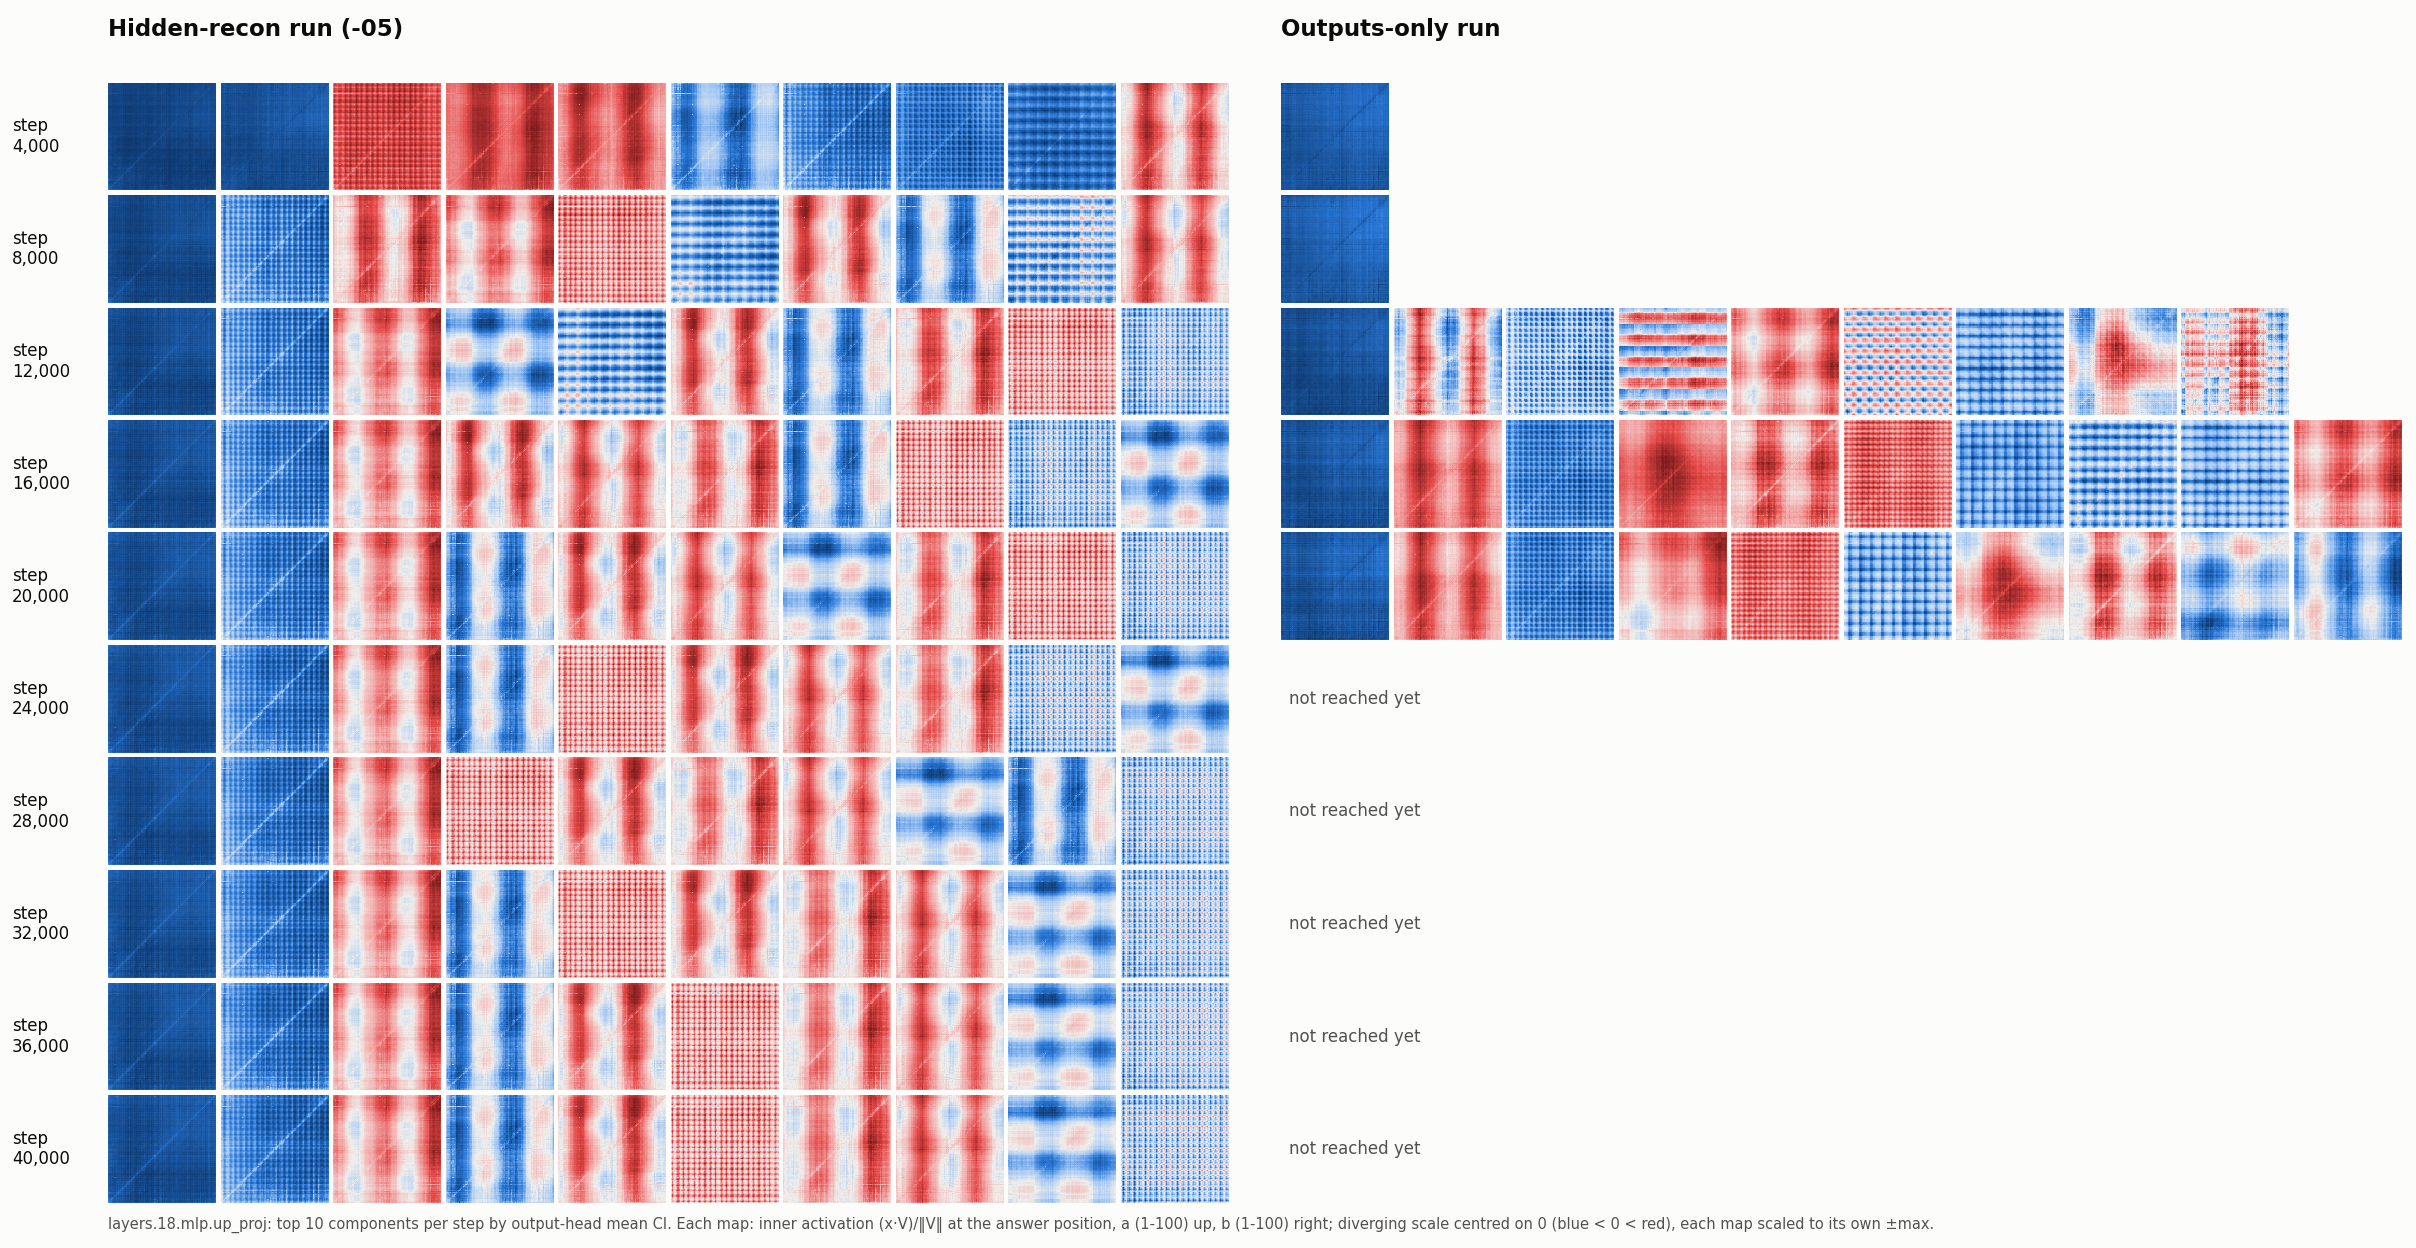
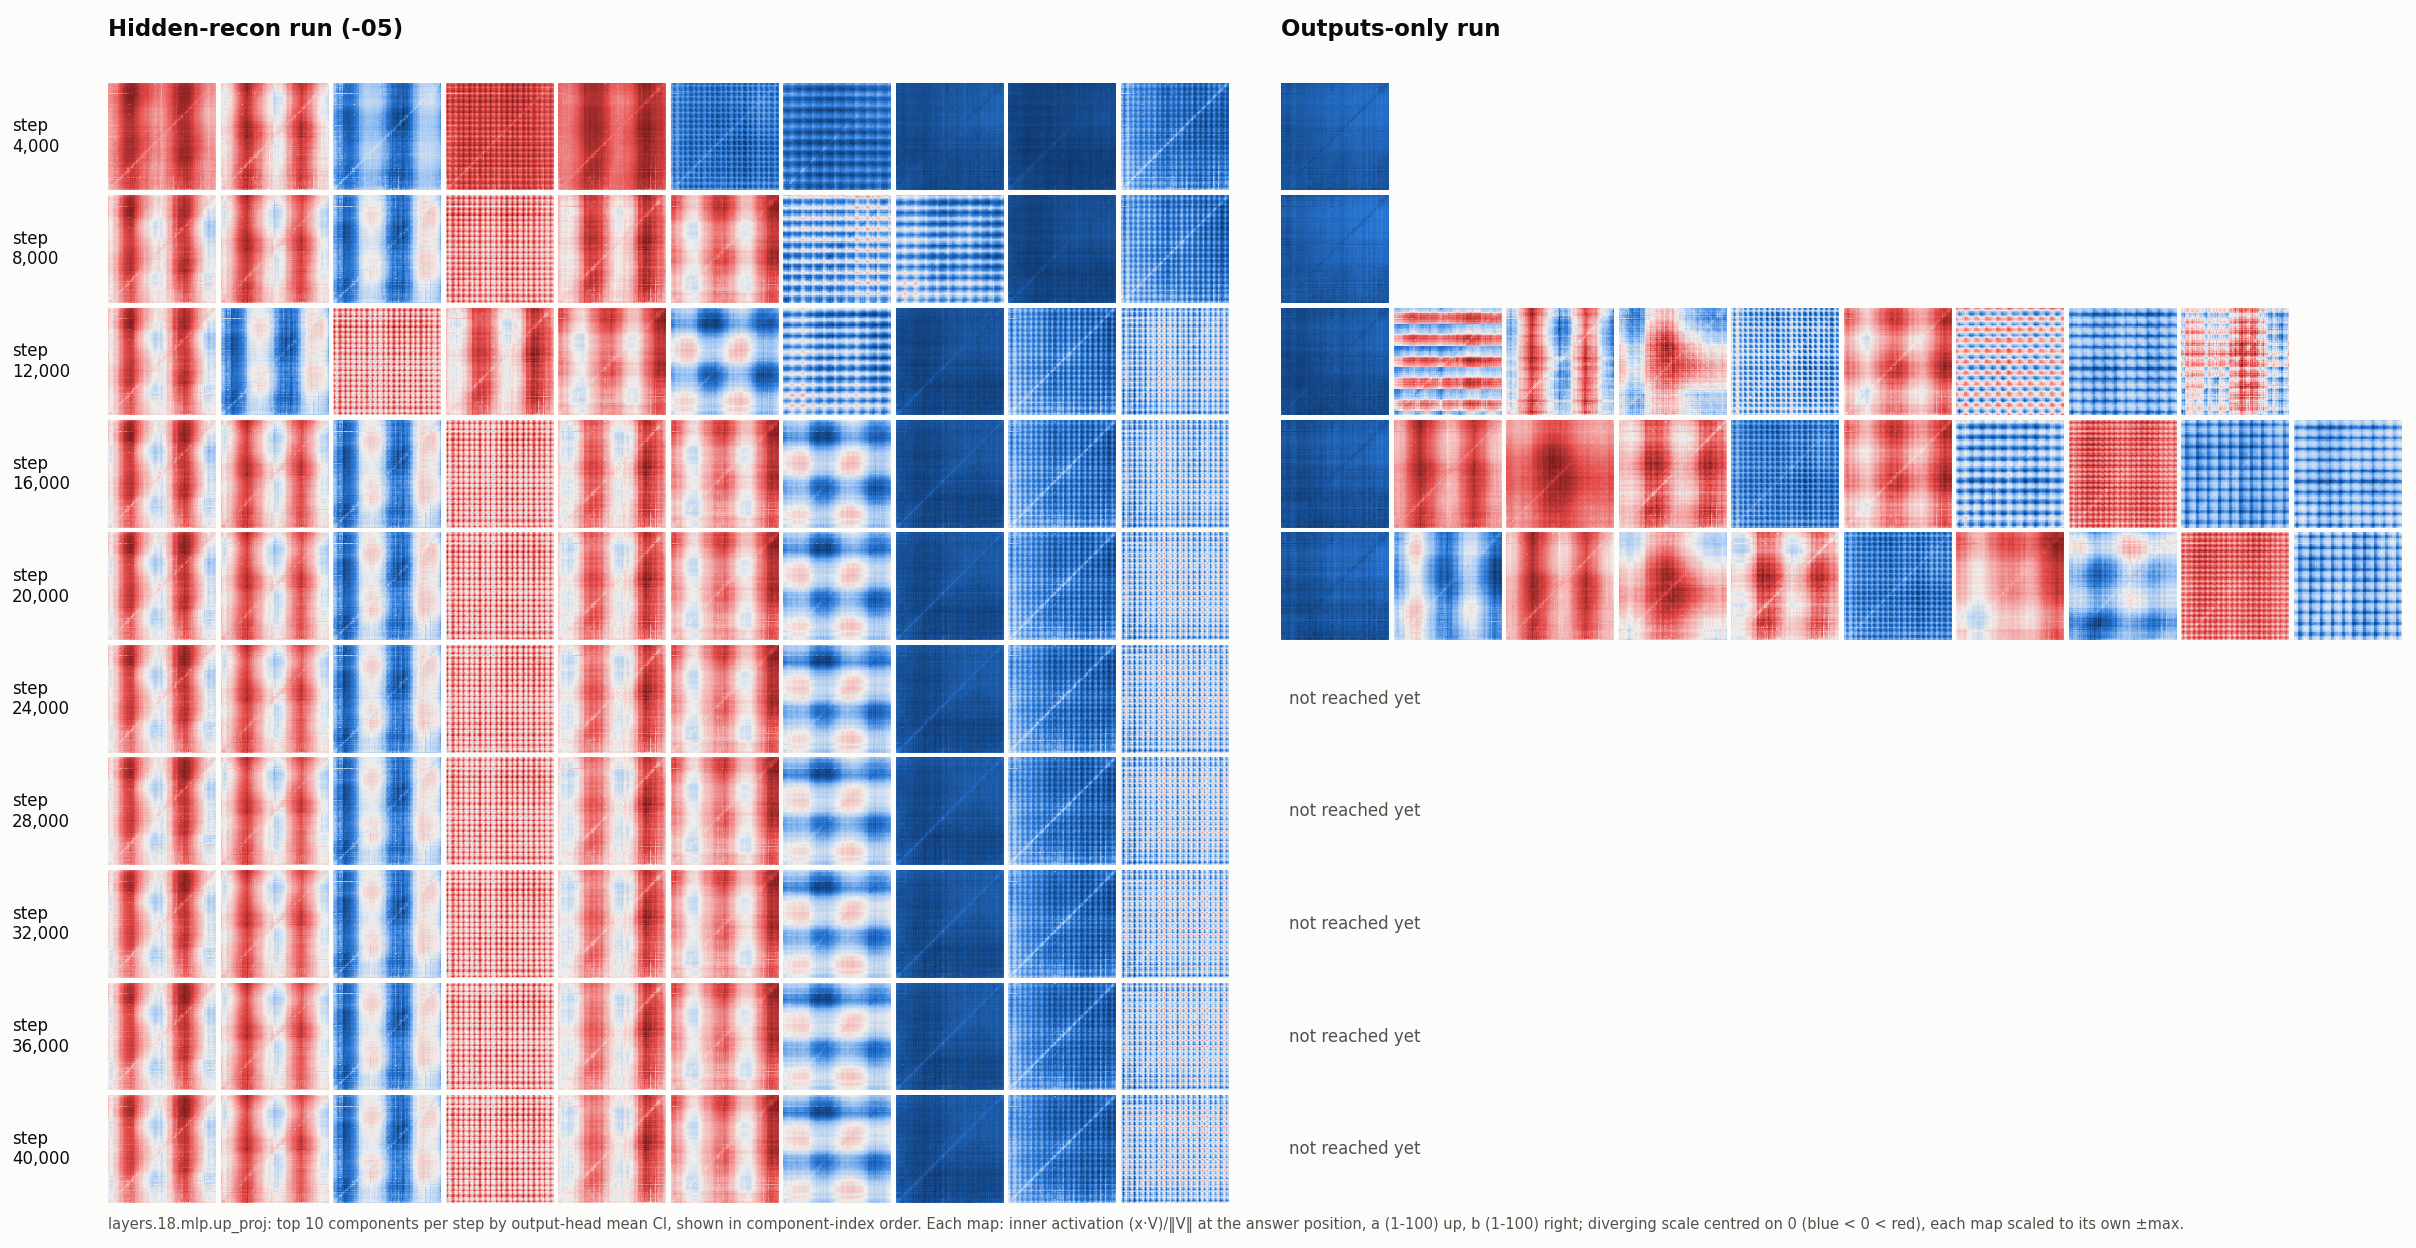
notes(dual_objective): L18 up_proj grids laid out in component-index order
The top 10 are still selected by output-head mean CI per step, but displayed by
component index, so a component that stays in the top 10 keeps roughly its
column from row to row.

diff --git a/notes/dual_objective/addsub-all-layers/plot_l18_up_proj_inner_grids.py b/notes/dual_objective/addsub-all-layers/plot_l18_up_proj_inner_grids.py
@@ -10,8 +10,9 @@ most active components side by side, nothing else drawn on them. A grid is the c
 activation `(x · V_c) / ‖V_c‖` at the answer position, over every `a + b =` prompt with
 a, b in 1..100 (a up, b right). "Most active" is the prompt-mean CI of the OUTPUT head at
 that position (`mean_ci`), the one CI both runs carry, ranked among the components the
-grid saved (only those have grids). Rankings are per step, so a column is a rank, not a
-fixed component. A row with fewer than ten saved components leaves the rest blank.
+grid saved (only those have grids). The top ten are chosen per step, then laid out in
+COMPONENT-INDEX order, so a component that stays in the top ten keeps roughly its place
+from row to row. A row with fewer than ten saved components leaves the rest blank.
 
 Inner activations are signed, so each grid uses a diverging scale centred on zero,
 symmetric to that grid's own largest magnitude. Magnitudes are not comparable across
@@ -75,7 +76,8 @@ def top_components(
     for path in sorted(grid_dir.glob("step_*.js"), key=lambda p: int(p.stem.split("_")[1])):
         step = int(path.stem.split("_")[1])
         saved, mean_ci, inner = site_grids(load_grid(path), site)
-        order = sorted(range(len(saved)), key=lambda i: -mean_ci[saved[i]])[:top]
+        chosen = sorted(range(len(saved)), key=lambda i: -mean_ci[saved[i]])[:top]
+        order = sorted(chosen, key=lambda i: saved[i])  # select by CI, display by index
         out[step] = [(saved[i], float(mean_ci[saved[i]]), inner[i]) for i in order]
         print(
             f"  {grid_dir.parent.name} step {step}: {len(saved)} saved, top {[saved[i] for i in order]}"
@@ -162,7 +164,8 @@ def main() -> None:
     fig.text(
         left / width,
         0.1 / height,
-        f"{a.site}: top {a.top} components per step by output-head mean CI. Each map: inner "
+        f"{a.site}: top {a.top} components per step by output-head mean CI, shown in "
+        "component-index order. Each map: inner "
         "activation (x·V)/‖V‖ at the answer position, a (1-100) up, b (1-100) right; diverging "
         "scale centred on 0 (blue < 0 < red), each map scaled to its own ±max.",
         fontsize=7,
